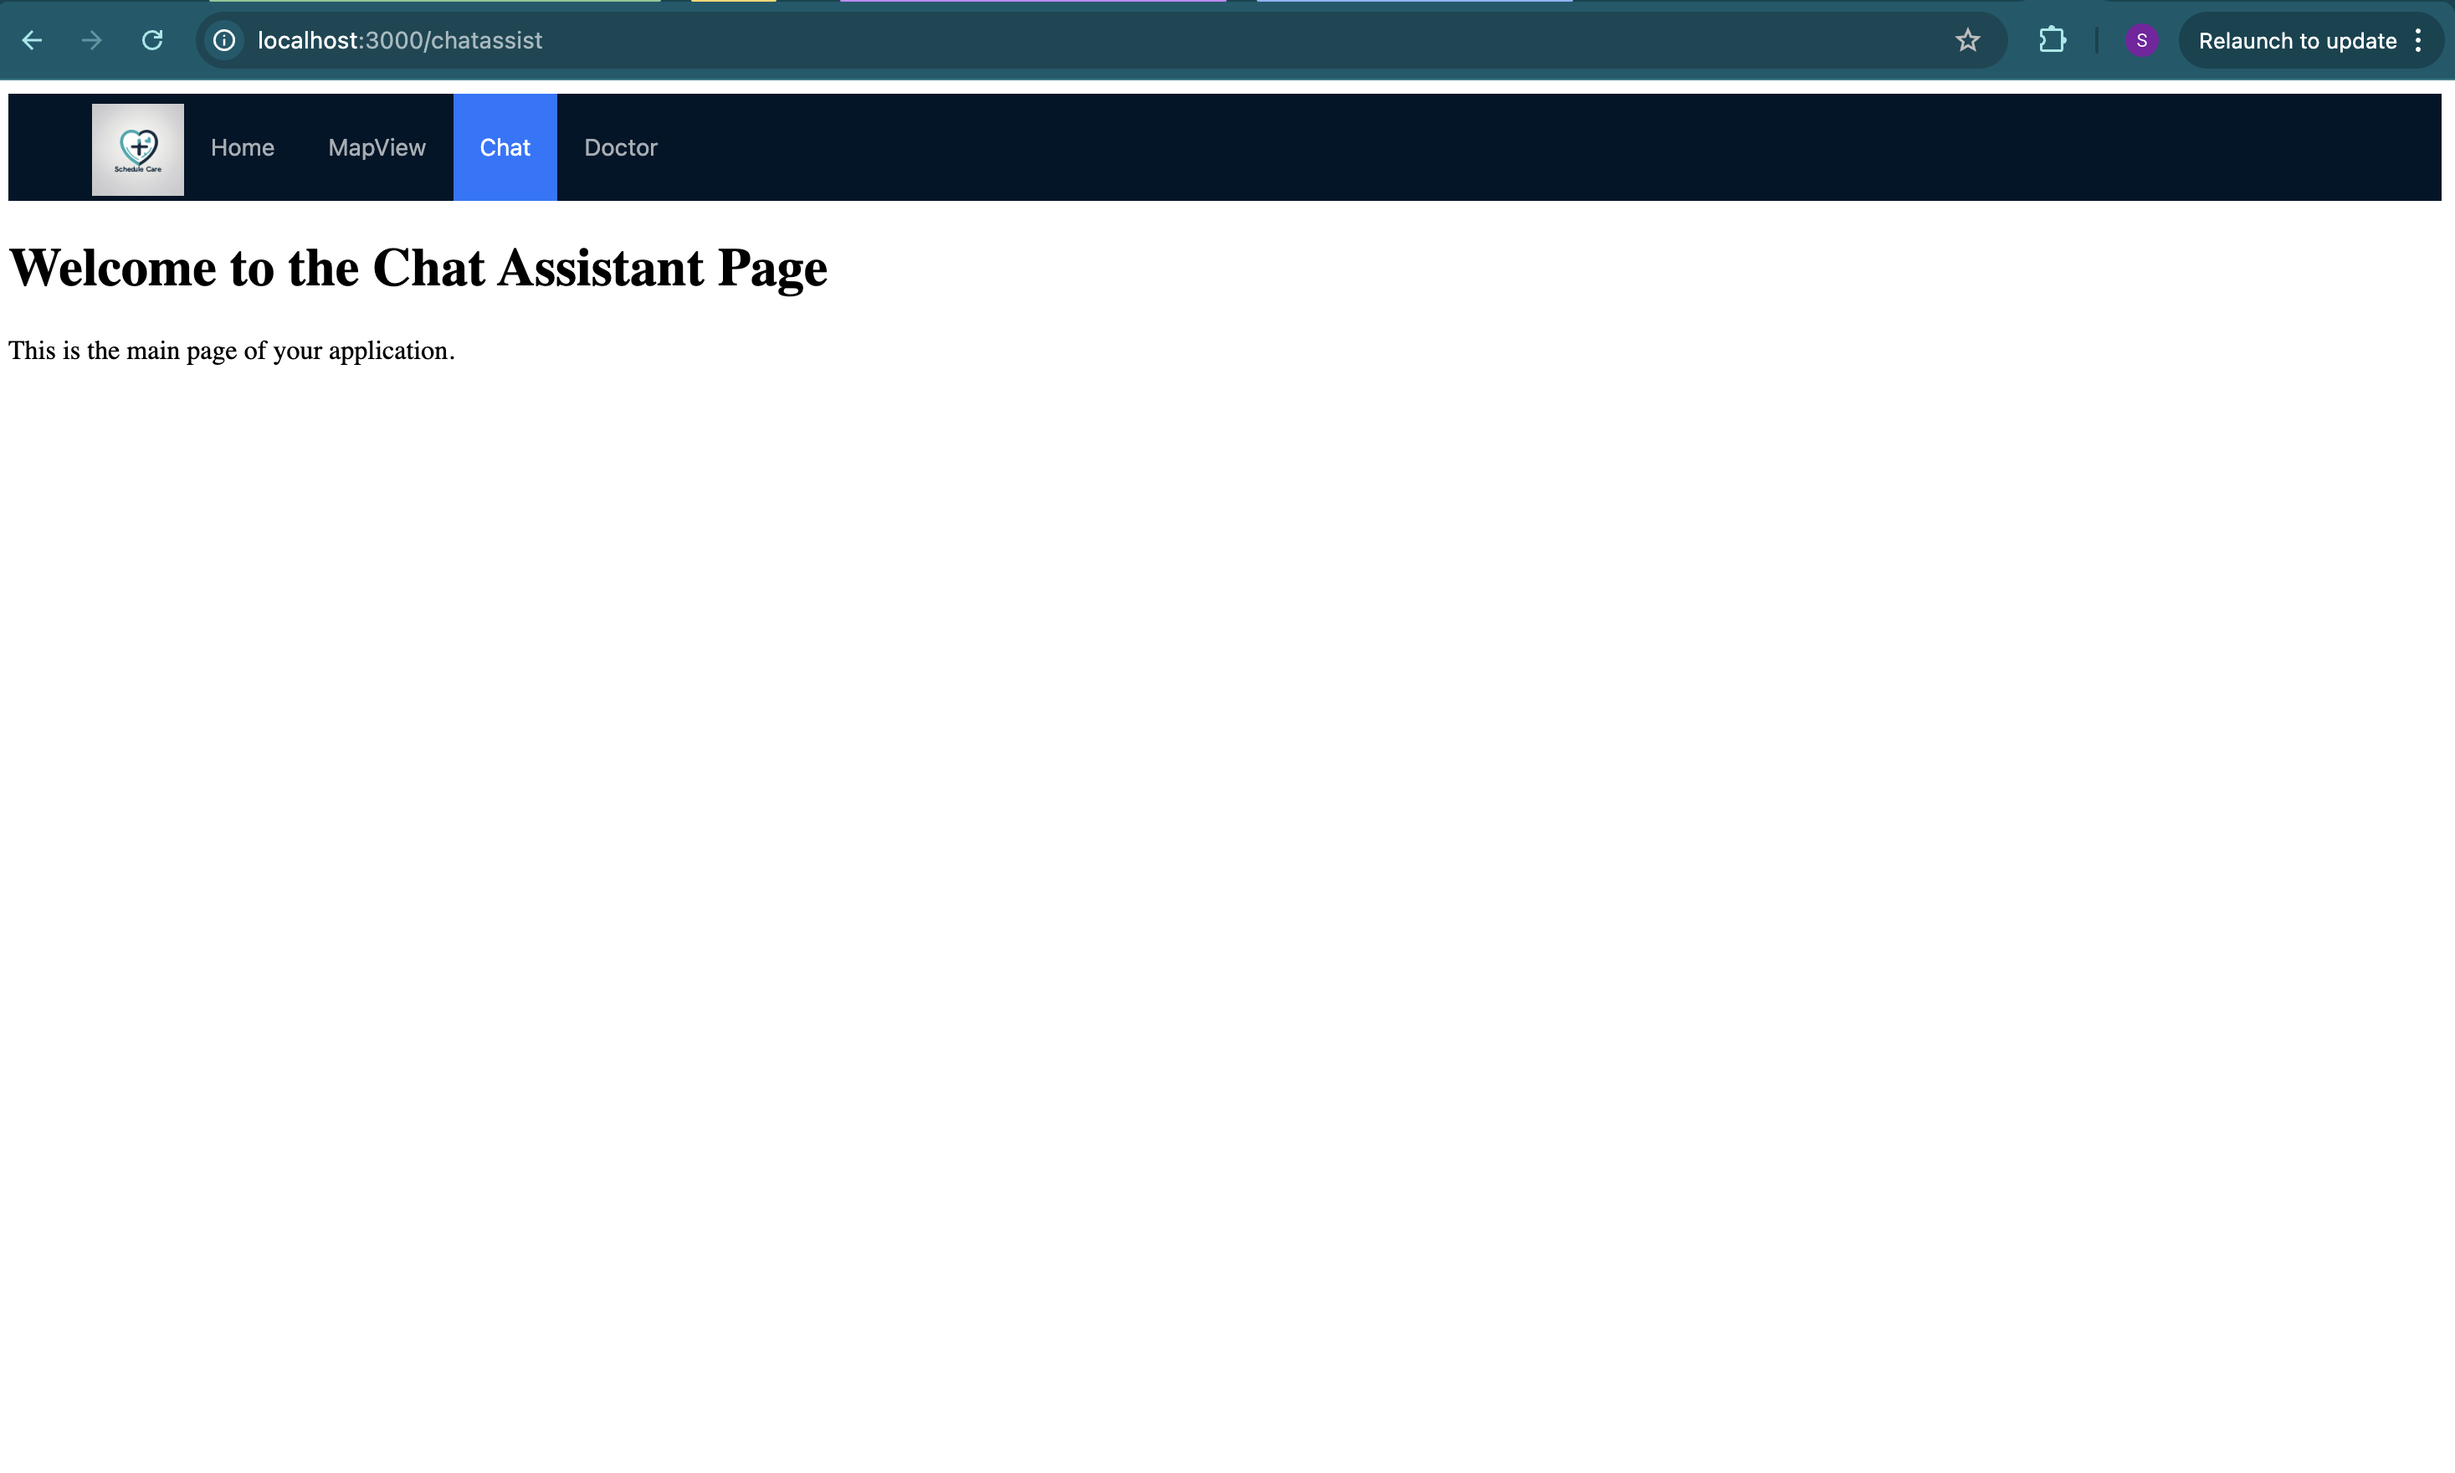
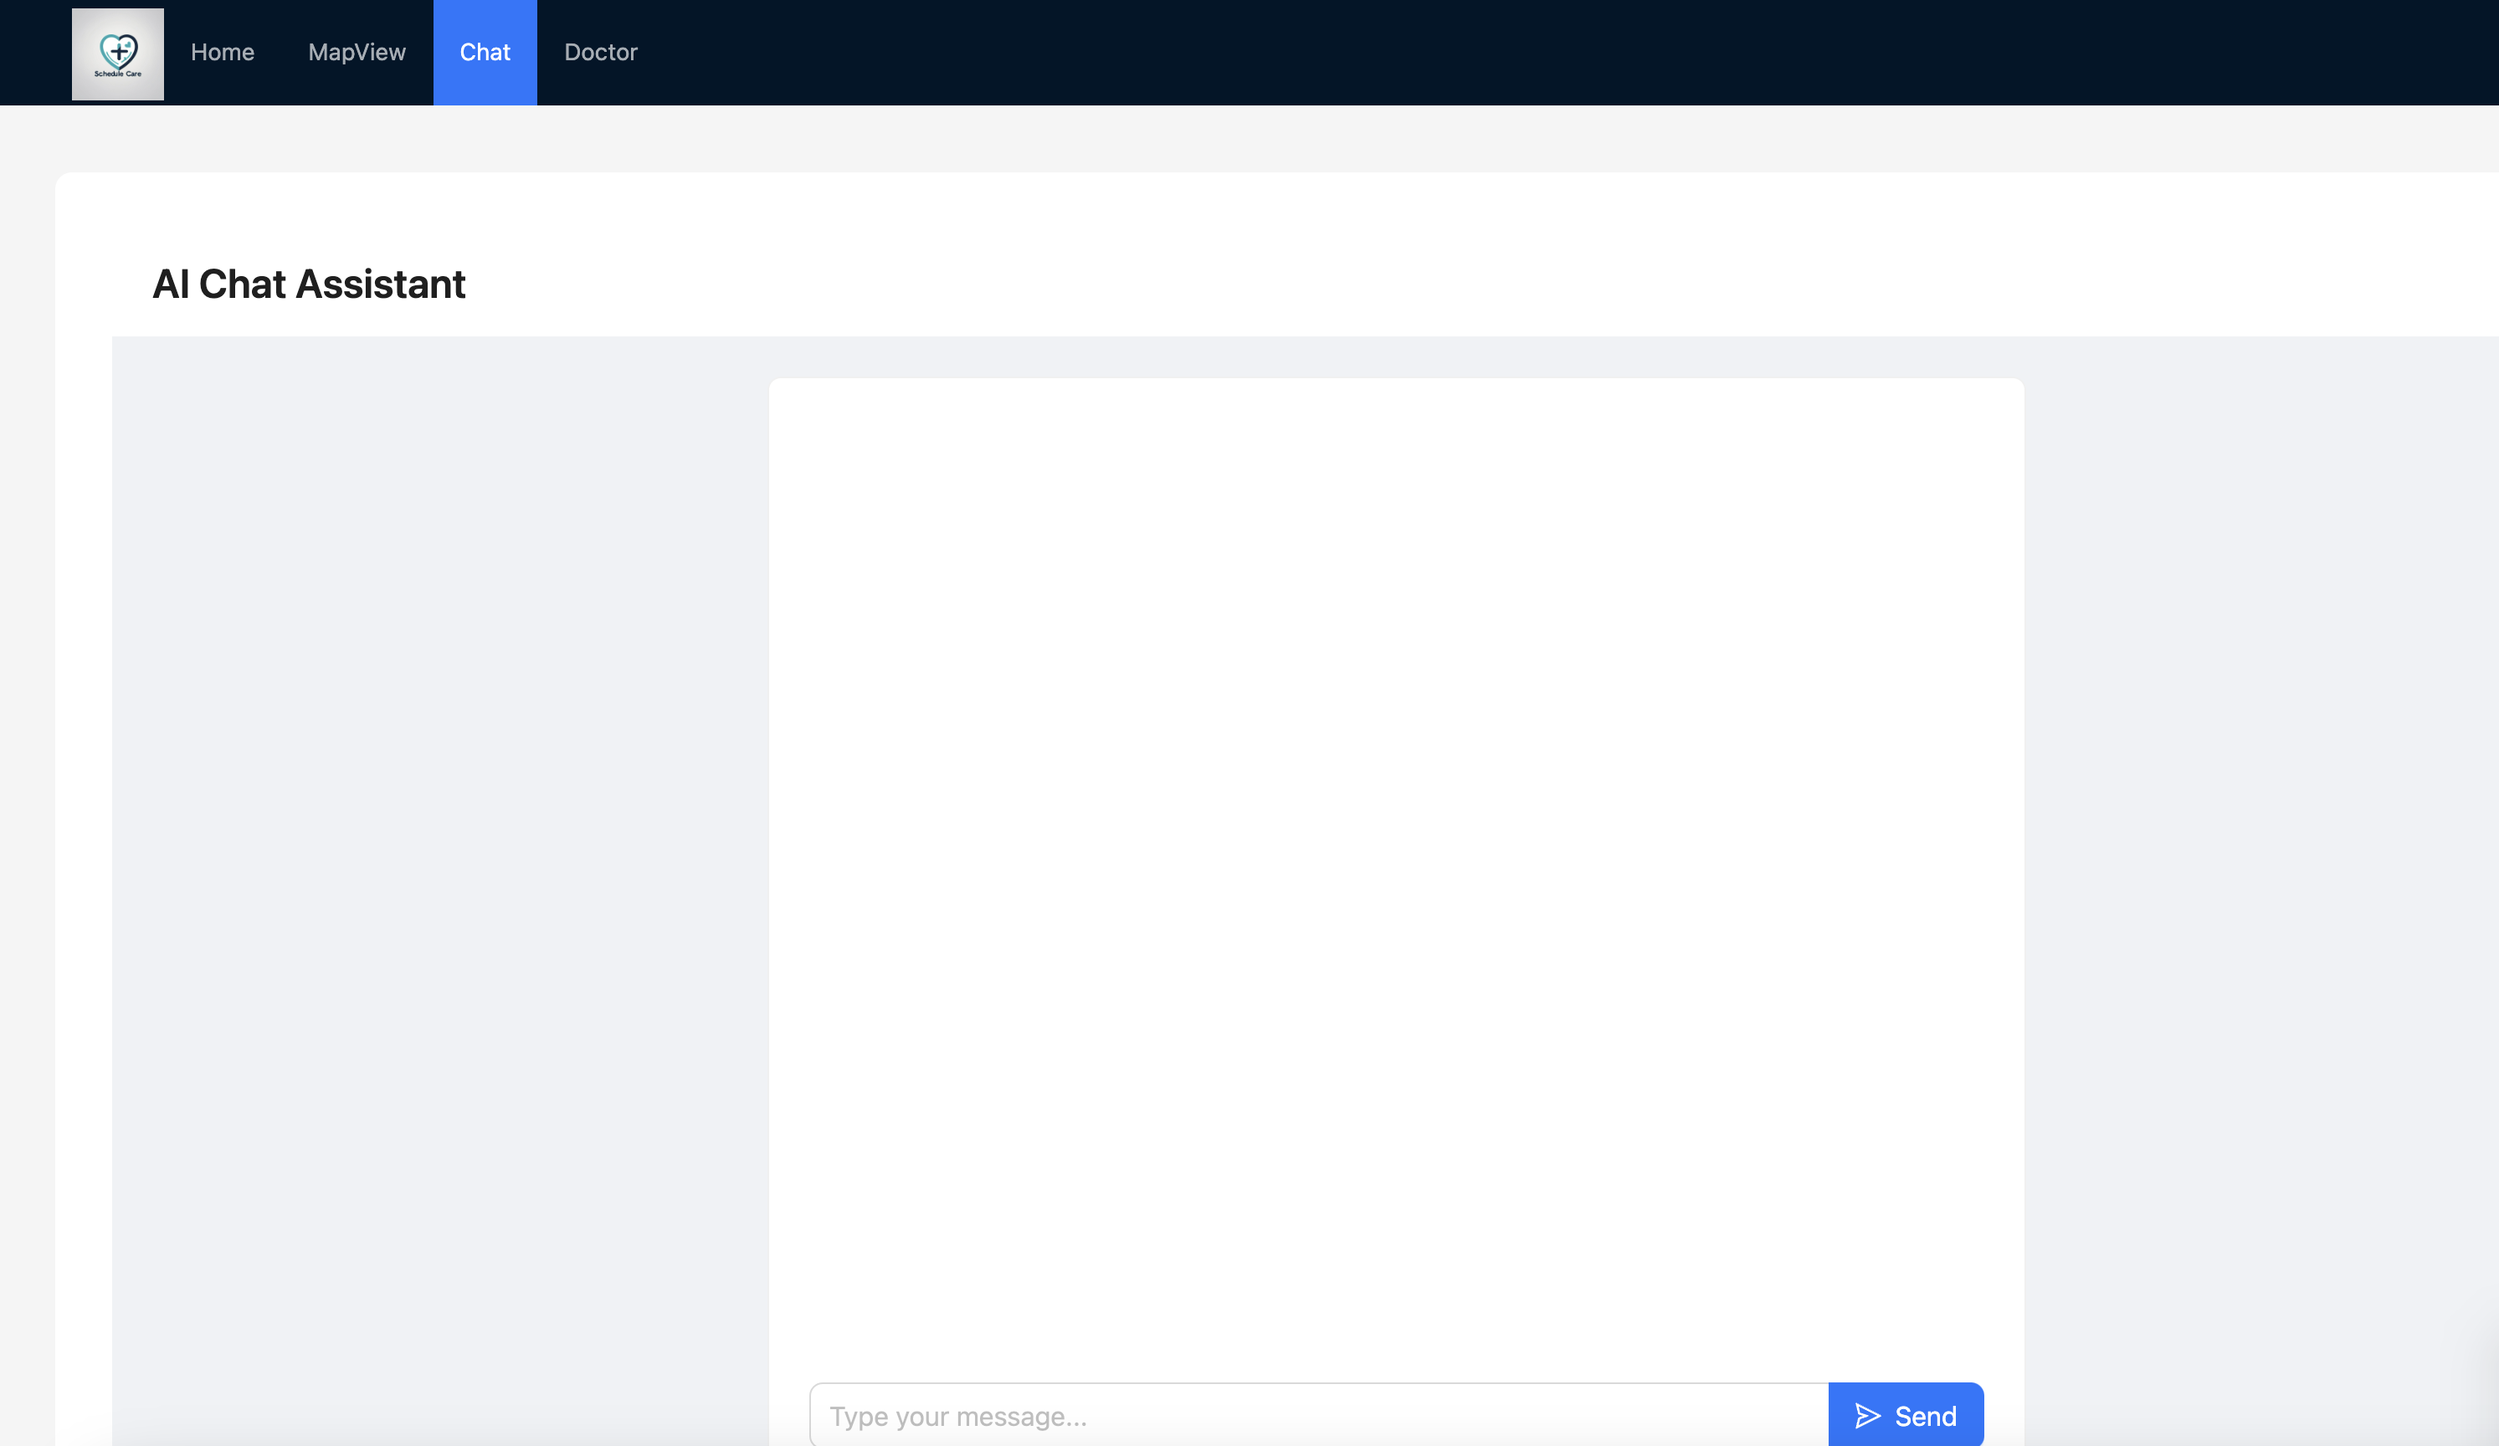
chat assistant code addns

diff --git a/client/src/pages/ChatAssistancePage.js b/client/src/pages/ChatAssistancePage.js
@@ -1,11 +1,134 @@
-import React from 'react';
+import React, { useState } from 'react';
+import { Layout, Input, Button, Card, Typography, Space } from 'antd';
+import { SendOutlined, RobotOutlined, UserOutlined } from '@ant-design/icons';
+import 'antd/dist/reset.css';
+
+const { Header, Content } = Layout;
+const { Text } = Typography;
 
 function ChatAssistantPage() {
+  const [messages, setMessages] = useState([]);
+  const [userInput, setUserInput] = useState('');
+  const [isLoading, setIsLoading] = useState(false);
+
+  const handleSubmit = async (e) => {
+    e.preventDefault();
+    if (!userInput.trim()) return;
+
+    const newMessage = { role: 'user', content: userInput };
+    setMessages(prev => [...prev, newMessage]);
+    setIsLoading(true);
+
+    try {
+      const response = await fetch('http://localhost:8000/chat/generate', {
+        method: 'POST',
+        headers: { 'Content-Type': 'application/json' },
+        body: JSON.stringify({ messages: [{role: "user",
+          content: userInput }]}),
+      });
+      
+      const data = await response.json();
+      setMessages(prev => [...prev, { role: 'assistant', content: data.response }]);
+    } catch (error) {
+      console.error('Error:', error);
+    } finally {
+      setIsLoading(false);
+      setUserInput('');
+    }
+  };
+
   return (
-    <div>
-      <h1>Welcome to the Chat Assistant Page</h1>
-      <p>This is the main page of your application.</p>
-    </div>
+    <Layout style={{ minHeight: '100vh', backgroundColor: '#f0f2f5' }}>
+      <Header style={{ backgroundColor: '#fff', padding: '0 24px' }}>
+        <Typography.Title level={3} style={{ margin: '16px 0' }}>
+          AI Chat Assistant
+        </Typography.Title>
+      </Header>
+      
+      <Content style={{ padding: '24px', maxWidth: '800px', margin: '0 auto', width: '100%' }}>
+        <Card
+          style={{
+            height: 'calc(100vh - 200px)',
+            display: 'flex',
+            flexDirection: 'column',
+          }}
+          bodyStyle={{
+            flex: 1,
+            display: 'flex',
+            flexDirection: 'column',
+            padding: '24px',
+            overflow: 'hidden',
+          }}
+        >
+          {/* Messages Area */}
+          <div
+            style={{
+              flex: 1,
+              overflow: 'auto',
+              marginBottom: '24px',
+            }}
+          >
+            <Space direction="vertical" style={{ width: '100%' }}>
+              {messages.map((message, index) => (
+                <Card
+                  key={index}
+                  style={{
+                    marginBottom: '16px',
+                    backgroundColor: message.role === 'user' ? '#e6f7ff' : '#f6f6f6',
+                    marginLeft: message.role === 'user' ? 'auto' : '0',
+                    marginRight: message.role === 'assistant' ? 'auto' : '0',
+                    maxWidth: '80%',
+                  }}
+                  bodyStyle={{ padding: '12px' }}
+                >
+                  <Space>
+                    {message.role === 'user' ? (
+                      <UserOutlined style={{ color: '#1890ff' }} />
+                    ) : (
+                      <RobotOutlined style={{ color: '#52c41a' }} />
+                    )}
+                    <Text>{message.content}</Text>
+                  </Space>
+                </Card>
+              ))}
+              {isLoading && (
+                <Card
+                  loading={true}
+                  style={{
+                    marginBottom: '16px',
+                    marginRight: 'auto',
+                    maxWidth: '80%',
+                  }}
+                />
+              )}
+            </Space>
+          </div>
+
+          {/* Input Area */}
+          <div style={{ marginTop: 'auto' }}>
+            <Space.Compact style={{ width: '100%' }}>
+              <Input
+                size="large"
+                value={userInput}
+                onChange={(e) => setUserInput(e.target.value)}
+                placeholder="Type your message..."
+                disabled={isLoading}
+                onPressEnter={handleSubmit}
+              />
+              <Button
+                size="large"
+                type="primary"
+                icon={<SendOutlined />}
+                onClick={handleSubmit}
+                disabled={isLoading}
+              >
+                Send
+              </Button>
+            </Space.Compact>
+          </div>
+        </Card>
+      </Content>
+    </Layout>
   );
 }
 

diff --git a/server/app/routers/chat_router.py b/server/app/routers/chat_router.py
@@ -1,0 +1,74 @@
+from fastapi import APIRouter, HTTPException
+from pydantic import BaseModel
+import google.generativeai as genai
+from typing import List, Optional
+
+# Initialize router
+router = APIRouter(
+    # prefix="/chat",
+    # tags=["chat"]
+)
+
+# Pydantic models for request/response
+class ChatMessage(BaseModel):
+    role: str
+    content: str
+
+class ChatRequest(BaseModel):
+    messages: List[ChatMessage]
+    temperature: Optional[float] = 0.7
+
+class ChatResponse(BaseModel):
+    response: str
+
+# Configure Gemini (you'll need to set this with your API key)
+GOOGLE_API_KEY = "AIzaSyDiFc8i8q20kHjppWfETtwe_5wMuPXFfHI"
+genai.configure(api_key=GOOGLE_API_KEY)
+
+# Initialize Gemini model
+model = genai.GenerativeModel('gemini-pro')
+
+HEALTHCARE_PROMPT = """You are a knowledgeable healthcare assistant. Your role is to:
+1. Listen carefully to patients' health concerns
+2. Provide general health guidance and suggestions
+3. Always remind patients to consult healthcare professionals for specific medical advice
+4. Be empathetic and professional in your responses
+5. Focus on general wellness and preventive care
+6. You can provide suggestions on basic medications the patient can take at home
+
+Please provide helpful information while maintaining appropriate medical disclaimers."""
+
+
+@router.post("/generate", response_model=ChatResponse)
+async def generate_chat_response(request: ChatRequest):
+    try:
+        # Convert messages to format Gemini expects
+        chat = model.start_chat(history=[])
+        chat.send_message(HEALTHCARE_PROMPT)
+        # Add all messages to chat history
+        for message in request.messages:
+            if message.role == "user":
+                chat.send_message(message.content)
+            elif message.role == "assistant":
+                
+                continue
+
+        # Generate response
+        response = chat.send_message(request.messages[-1].content)
+        
+        # Add healthcare disclaimer to response
+        full_response = (
+            response.text + 
+            "\n\nNote: This information is for general guidance only and should not "
+            "replace professional medical advice. Please consult with a healthcare "
+            "provider for specific medical concerns."
+        )
+
+        return ChatResponse(response=full_response)
+
+    except Exception as e:
+        raise HTTPException(status_code=500, detail=str(e))
+
+@router.get("/health")
+async def health_check():
+    return {"status": "healthy"}
